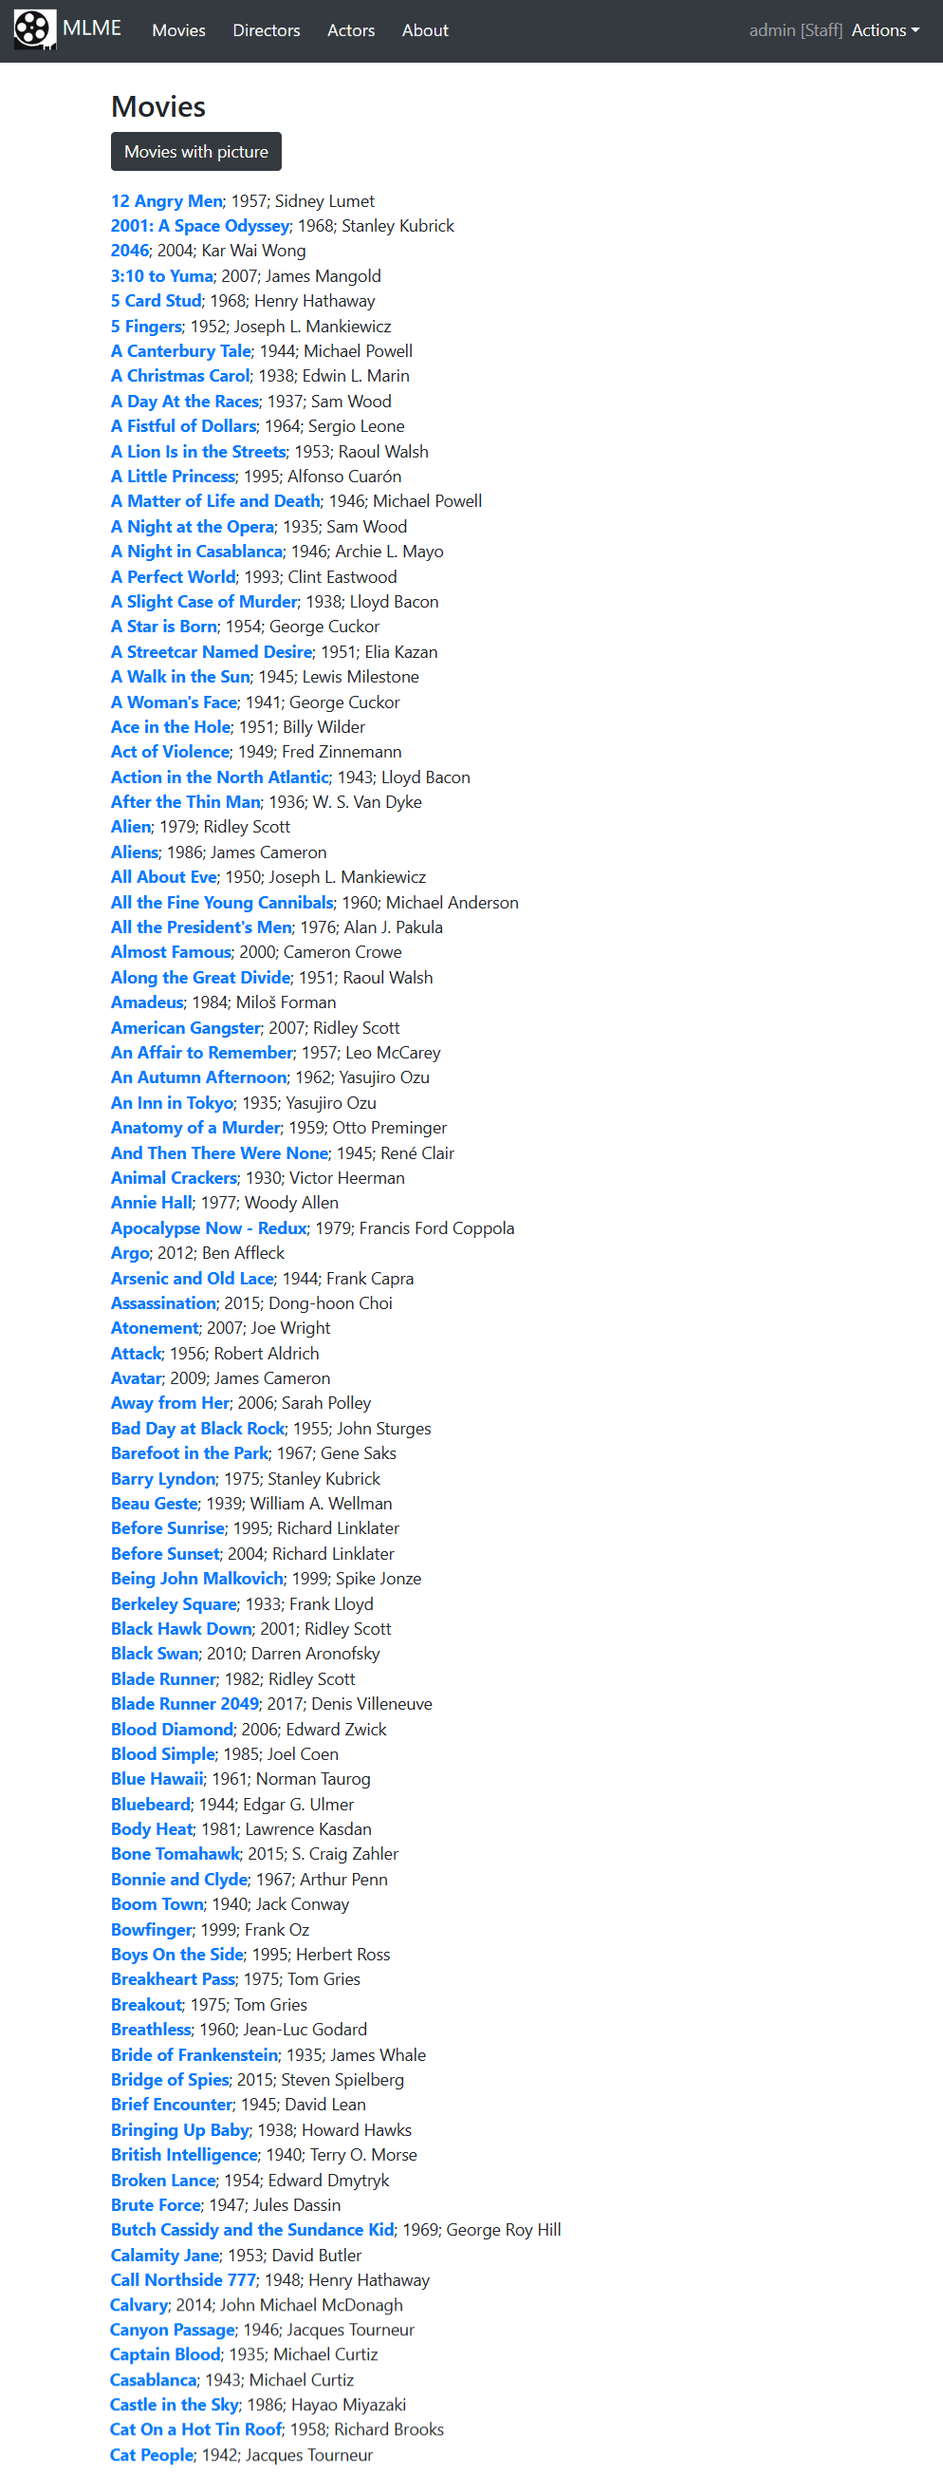
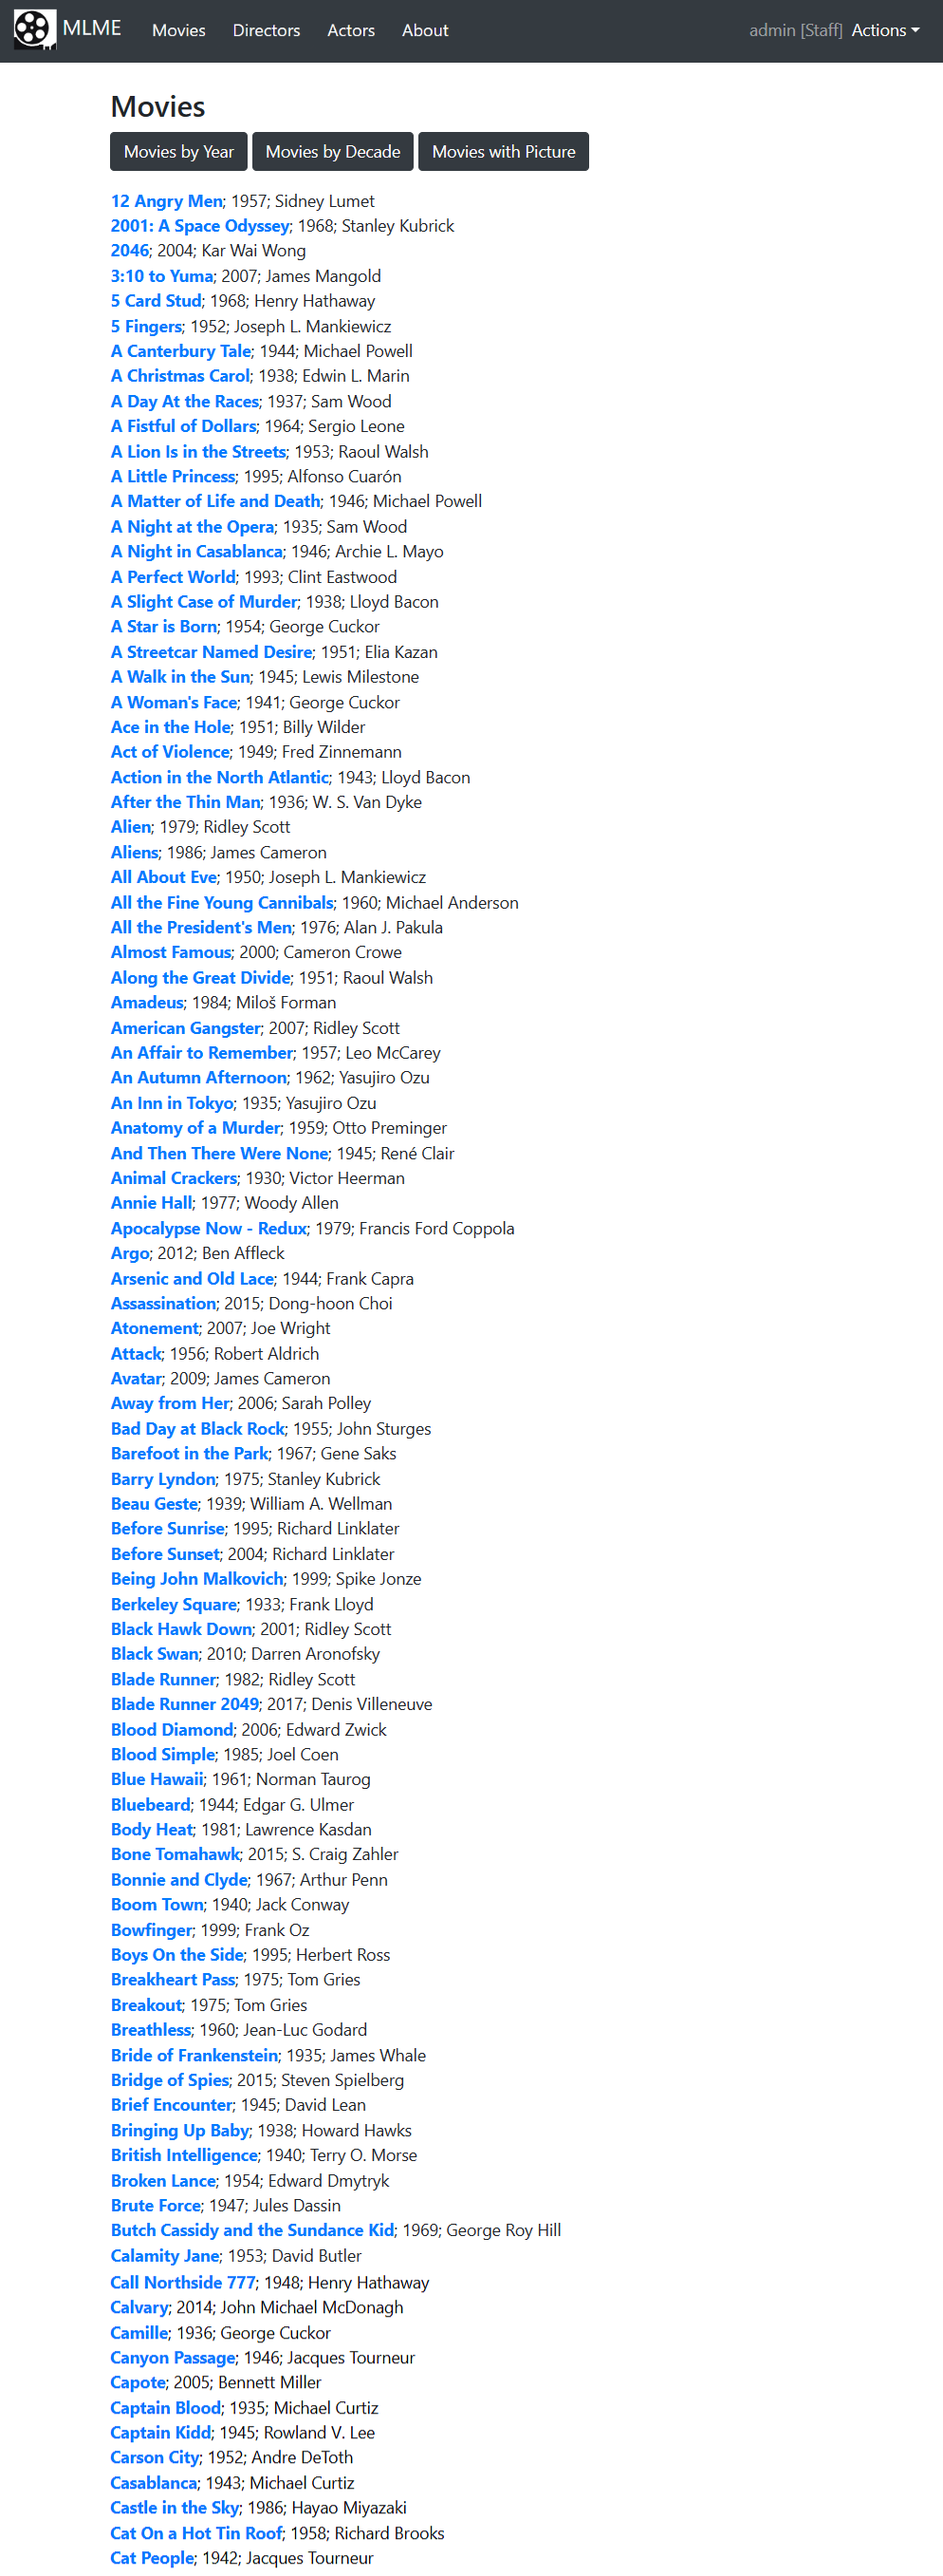
[IMP] catalog: Some improvements.

diff --git a/templates/catalog/movie_list_by_decade.html b/templates/catalog/movie_list_by_decade.html
@@ -4,22 +4,27 @@
 
 {% block content %}
     <br/>
-    <h3>Movies</h3>
+    <h3>Movies by Decade</h3>
     <p>
+        <a class="btn btn-dark" href="{% url 'movie_list' %}">Movies</a>
         <a class="btn btn-dark" href="{% url 'movie_list_by_year' %}">Movies by Year</a>
-        <a class="btn btn-dark" href="{% url 'movie_list_by_decade' %}">Movies by Decade</a>
-        <a class="btn btn-dark" href="{% url 'movie_with_picture_list' %}">Movies with Picture</a>
+        <a class="btn btn-dark" href="{% url 'movie_with_picture_list' %}">Movies with picture</a>
     </p>
     <p>
-        {% for movie in movies %}
+    {% for decade, movies in decades.items %}
+        <h4>
+            <br/>
+            {{ decade }}
+        </h4>
+        {% for decade, movie in movies %}
             <b><a href="{% url 'movie' movie_id=movie.id %}">{{ movie.title }}</a></b>;
             {{ movie.year }};
             {% if movie.director.first_name %}{{ movie.director.first_name }}{% endif %}
             {% if movie.director.last_name %} {{ movie.director.last_name }}{% endif %}
             <br/>
-
-        {% empty %}
-            <i>There are no movies in the database.</i>
         {% endfor %}
+    {% empty %}
+        <i>There are no movies in the database.</i>
+    {% endfor %}
     </p>
 {% endblock content %}

diff --git a/templates/catalog/movie_list_by_year.html b/templates/catalog/movie_list_by_year.html
@@ -4,22 +4,27 @@
 
 {% block content %}
     <br/>
-    <h3>Movies</h3>
+    <h3>Movies by Year</h3>
     <p>
-        <a class="btn btn-dark" href="{% url 'movie_list_by_year' %}">Movies by Year</a>
+        <a class="btn btn-dark" href="{% url 'movie_list' %}">Movies</a>
         <a class="btn btn-dark" href="{% url 'movie_list_by_decade' %}">Movies by Decade</a>
-        <a class="btn btn-dark" href="{% url 'movie_with_picture_list' %}">Movies with Picture</a>
+        <a class="btn btn-dark" href="{% url 'movie_with_picture_list' %}">Movies with picture</a>
     </p>
     <p>
-        {% for movie in movies %}
+    {% for year, movies in years.items %}
+        <h4>
+            <br/>
+            {{ year }}
+        </h4>
+        {% for year, movie in movies %}
             <b><a href="{% url 'movie' movie_id=movie.id %}">{{ movie.title }}</a></b>;
             {{ movie.year }};
             {% if movie.director.first_name %}{{ movie.director.first_name }}{% endif %}
             {% if movie.director.last_name %} {{ movie.director.last_name }}{% endif %}
             <br/>
-
-        {% empty %}
-            <i>There are no movies in the database.</i>
         {% endfor %}
+    {% empty %}
+        <i>There are no movies in the database.</i>
+    {% endfor %}
     </p>
 {% endblock content %}

diff --git a/catalog/migrations/0005_actor_alter_director_options_director_picture_and_more.py b/catalog/migrations/0005_actor_alter_director_options_director_picture_and_more.py
@@ -1,0 +1,94 @@
+# Generated by Django 4.2.1 on 2023-06-03 22:59
+
+from django.db import migrations, models
+
+
+class Migration(migrations.Migration):
+
+    dependencies = [
+        ('catalog', '0004_alter_movie_runtime'),
+    ]
+
+    operations = [
+        migrations.CreateModel(
+            name='Actor',
+            fields=[
+                ('id', models.BigAutoField(auto_created=True, primary_key=True, serialize=False, verbose_name='ID')),
+                ('last_name', models.CharField(max_length=52)),
+                ('first_name', models.CharField(blank=True, max_length=52)),
+                ('created', models.DateTimeField(auto_now_add=True)),
+                ('updated', models.DateTimeField(auto_now=True)),
+                ('picture', models.ImageField(blank=True, null=True, upload_to='')),
+            ],
+            options={
+                'verbose_name': 'Actor',
+                'verbose_name_plural': 'Actors',
+                'ordering': ['last_name', 'first_name'],
+            },
+        ),
+        migrations.AlterModelOptions(
+            name='director',
+            options={'ordering': ['last_name', 'first_name'], 'verbose_name': 'Director', 'verbose_name_plural': 'Directors'},
+        ),
+        migrations.AddField(
+            model_name='director',
+            name='picture',
+            field=models.ImageField(blank=True, null=True, upload_to=''),
+        ),
+        migrations.AddField(
+            model_name='movie',
+            name='cinematography',
+            field=models.CharField(blank=True, max_length=60),
+        ),
+        migrations.AddField(
+            model_name='movie',
+            name='decade',
+            field=models.IntegerField(default=0),
+        ),
+        migrations.AddField(
+            model_name='movie',
+            name='genres',
+            field=models.CharField(blank=True, max_length=254),
+        ),
+        migrations.AddField(
+            model_name='movie',
+            name='picture',
+            field=models.ImageField(blank=True, null=True, upload_to=''),
+        ),
+        migrations.AddField(
+            model_name='movie',
+            name='producer',
+            field=models.CharField(blank=True, max_length=60),
+        ),
+        migrations.AddField(
+            model_name='movie',
+            name='writer',
+            field=models.CharField(blank=True, max_length=60),
+        ),
+        migrations.AlterField(
+            model_name='movie',
+            name='year',
+            field=models.IntegerField(default=0),
+        ),
+        migrations.AddIndex(
+            model_name='director',
+            index=models.Index(fields=['last_name', 'first_name'], name='catalog_dir_last_na_a910ee_idx'),
+        ),
+        migrations.AddIndex(
+            model_name='movie',
+            index=models.Index(fields=['year', 'title', 'director'], name='catalog_mov_year_4c754a_idx'),
+        ),
+        migrations.AddIndex(
+            model_name='movie',
+            index=models.Index(fields=['decade', 'year', 'title', 'director'], name='catalog_mov_decade_78c829_idx'),
+        ),
+        migrations.AddIndex(
+            model_name='actor',
+            index=models.Index(fields=['last_name', 'first_name'], name='catalog_act_last_na_43aeab_idx'),
+        ),
+        migrations.AddField(
+            model_name='movie',
+            name='actors',
+            field=models.ManyToManyField(blank=True, to='catalog.actor'),
+        ),
+    ]

diff --git a/catalog/urls.py b/catalog/urls.py
@@ -12,6 +12,8 @@ from home.views import home_views
 
 urlpatterns = [
     path('movie_list/', movie_views.movie_list, name='movie_list'),
+    path('movie_list_by_year/', movie_views.movie_list_by_year, name='movie_list_by_year'),
+    path('movie_list_by_decade/', movie_views.movie_list_by_decade, name='movie_list_by_decade'),
     path('movie_with_picture_list/', movie_views.movie_with_picture_list, name='movie_with_picture_list'),
     path('movie/<int:movie_id>/', movie_views.movie, name='movie'),
     path('upload_movie_photo/<int:movie_id>/', movie_views.upload_movie_photo,
@@ -22,6 +24,13 @@ urlpatterns = [
     path('upload_director_photo/<int:director_id>/', director_views.upload_director_photo,
          name="upload_director_photo"),
 
+    path('actor_list/', actor_views.actor_list, name="actor_list"),
+    path('actor/<int:actor_id>/', actor_views.actor, name="actor"),
+    path('upload_actor_photo/<int:actor_id>/', actor_views.upload_actor_photo,
+         name="upload_actor_photo"),
+    path('calc_new_actors_from_cast/', actor_views.calc_new_actors_from_cast,
+         name="calc_new_actors_from_cast"),
+
     path('api/v1/directors/', director_views_api_v1.DirectorList.as_view(), name="api_directors"),
     path('api/v1/directors/<int:pk>/', director_views_api_v1.DirectorDetail.as_view(), name="api_director_detail"),
 
@@ -30,13 +39,6 @@ urlpatterns = [
 
     path('api/v1/actors/', actor_views_api_v1.ActorList.as_view(), name="api_actors"),
     path('api/v1/actors/<int:pk>/', actor_views_api_v1.ActorDetail.as_view(), name="api_actor_detail"),
-
-    path('actor_list/', actor_views.actor_list, name="actor_list"),
-    path('actor/<int:actor_id>/', actor_views.actor, name="actor"),
-    path('upload_actor_photo/<int:actor_id>/', actor_views.upload_actor_photo,
-         name="upload_actor_photo"),
-    path('calc_new_actors_from_cast/', actor_views.calc_new_actors_from_cast,
-         name="calc_new_actors_from_cast"),
 
     path('about/', home_views.about, name="about"),
     path('load_data/', load_data_views.load_data, name="load_data"),

diff --git a/catalog/views/movie_views.py b/catalog/views/movie_views.py
@@ -1,3 +1,5 @@
+from collections import defaultdict
+from itertools import groupby
 from pathlib import Path
 
 from django.conf import settings
@@ -21,6 +23,54 @@ def movie_with_picture_list(request):
             'title', 'director__last_name', 'director__first_name', 'year')
         }
     return render(request, "catalog/movie_with_picture_list.html", data)
+
+
+def movie_list_by_year(request):
+    data = {
+        'movies': Movie.objects.order_by('year', 'title', 'director__last_name', 'director__first_name')
+        }
+    return render(request, "catalog/movie_list_by_year.html", _group_data_by_year(data['movies']))
+
+
+def _group_data_by_year(data):
+    def key_func(x):
+        return x[0]
+
+    data_with_year = ((x.year, x) for x in data)
+    data_by_year = groupby(sorted(data_with_year, key=key_func), key_func)
+
+    res = defaultdict(list)
+    for year, movies in data_by_year:
+        for movie in movies:
+            res[year].append(movie)
+
+    return {
+        'years': dict(res)
+        }
+
+
+def movie_list_by_decade(request):
+    data = {
+        'movies': Movie.objects.order_by('title', 'director__last_name', 'director__first_name')
+        }
+    return render(request, "catalog/movie_list_by_decade.html", _group_data_by_decade(data['movies']))
+
+
+def _group_data_by_decade(data):
+    def key_func(x):
+        return x[0]
+
+    data_with_decade = ((x.decade, x) for x in data)
+    data_by_decade = groupby(sorted(data_with_decade, key=key_func), key_func)
+
+    res = defaultdict(list)
+    for decade, movies in data_by_decade:
+        for movie in movies:
+            res[decade].append(movie)
+
+    return {
+        'decades': dict(res)
+        }
 
 
 def movie(request, movie_id):

diff --git a/catalog/import_data/import_data.py b/catalog/import_data/import_data.py
@@ -28,7 +28,10 @@ def import_initial_data():
     __import_catalog_directors()
     __import_catalog_actors()
     __import_catalog_movies()
+    __create_movie_actor_links()
 
+
+def __create_movie_actor_links():
     data = get_data_to_update_actors_n_movie_actor_links()
     if data['movies']:
         update_actors_n_movie_actor_links(data)
@@ -82,10 +85,16 @@ def __import_catalog_movies():
         log.info(f"Adding movie num {count_movies:6} to database: {key}")
         director = Director.objects.get(id=vals['director_id'])
         del vals[config.MOVIE_COLUMN_TO_GROUP_BY]
+        year = int(vals['year']) if vals['year'] and vals['year'].isnumeric() else 0
+        vals['decade'] = _get_decade_from_year(year)
         vals['director_id'] = director.id
         Movie.objects.create(**vals)
     log.info("Committing to database")
     log.info("End Import movie lib movies file")
+
+
+def _get_decade_from_year(year):
+    return year - (year % 10) if 1900 <= year <= 9999 else 0
 
 
 def __import_catalog_directors():

diff --git a/catalog/models/movie.py b/catalog/models/movie.py
@@ -16,7 +16,8 @@ class Movie(models.Model):
         blank=True,
         )
     runtime = models.IntegerField(default=0)
-    year = models.IntegerField()
+    year = models.IntegerField(default=0)
+    decade = models.IntegerField(default=0)
     country = models.CharField(max_length=3, blank=True)
     language = models.CharField(max_length=25, blank=True)
     cast = models.CharField(max_length=254, blank=True)
@@ -36,8 +37,10 @@ class Movie(models.Model):
         verbose_name = 'Movie'
         verbose_name_plural = 'Movies'
         indexes = [
-            models.Index(fields=['title', 'director'])
-        ]
+            models.Index(fields=['title', 'director']),
+            models.Index(fields=['year', 'title', 'director']),
+            models.Index(fields=['decade', 'year', 'title', 'director']),
+            ]
 
     def __str__(self):
         return f"Id: {self.id}, \n" \

diff --git a/catalog/models/director.py b/catalog/models/director.py
@@ -8,8 +8,17 @@ class Director(models.Model):
     updated = models.DateTimeField(auto_now=True)
     picture = models.ImageField(blank=True, null=True)
 
+    class Meta:
+        ordering = ['last_name', 'first_name']
+        verbose_name = 'Director'
+        verbose_name_plural = 'Directors'
+        indexes = [
+            models.Index(fields=['last_name', 'first_name']),
+            ]
+
     def __str__(self):
-        return f"{self.first_name} {self.last_name} [{self.id}]"
+        return f"{self.first_name}{self.first_name and ' ' or ''}" \
+               f"{self.last_name} [{self.id}]"
 
     def __repr__(self):
         return f'Director(id={self.id}, ' \

diff --git a/catalog/models/actor.py b/catalog/models/actor.py
@@ -8,8 +8,17 @@ class Actor(models.Model):
     updated = models.DateTimeField(auto_now=True)
     picture = models.ImageField(blank=True, null=True)
 
+    class Meta:
+        ordering = ['last_name', 'first_name']
+        verbose_name = 'Actor'
+        verbose_name_plural = 'Actors'
+        indexes = [
+            models.Index(fields=['last_name', 'first_name']),
+            ]
+
     def __str__(self):
-        return f"{self.first_name} {self.last_name} [{self.id}]"
+        return f"{self.first_name}{self.first_name and ' ' or ''}" \
+               f"{self.last_name} [{self.id}]"
 
     def __repr__(self):
         return f'Actor(id={self.id}, ' \

diff --git a/catalog/serializers.py b/catalog/serializers.py
@@ -18,10 +18,12 @@ class DirectorSerializer(serializers.ModelSerializer):
 
 
 class MovieSerializer(serializers.ModelSerializer):
+    actors = serializers.PrimaryKeyRelatedField(many=True, read_only=True)
+
     class Meta:
         model = Movie
         fields = ['id', 'title', 'title_original', 'director', 'runtime',
-                  'year', 'country', 'language', 'cast', 'genres',
+                  'year', 'country', 'language', 'cast', 'actors', 'genres',
                   'writer', 'producer', 'cinematography', 'production_company', 'note',
                   'description', 'created', 'updated',
                   ]

diff --git a/README.md b/README.md
@@ -90,6 +90,11 @@ http://127.0.0.1:8000/catalog/api/v1/actors/27/
 
 * Get all actors which last name is Coppola<br/>
 curl -i "http://127.0.0.1:8000/catalog/api/v1/actors/?last_name=Toshiro%20Mifune"
+
+
+* Get all actors which last name is "Toshiro Mifune"<br/>
+curl -i "http://127.0.0.1:8000/catalog/api/v1/actors/?last_name=Toshiro%20Mifune"
+
 <br/> <br/>
 
 
